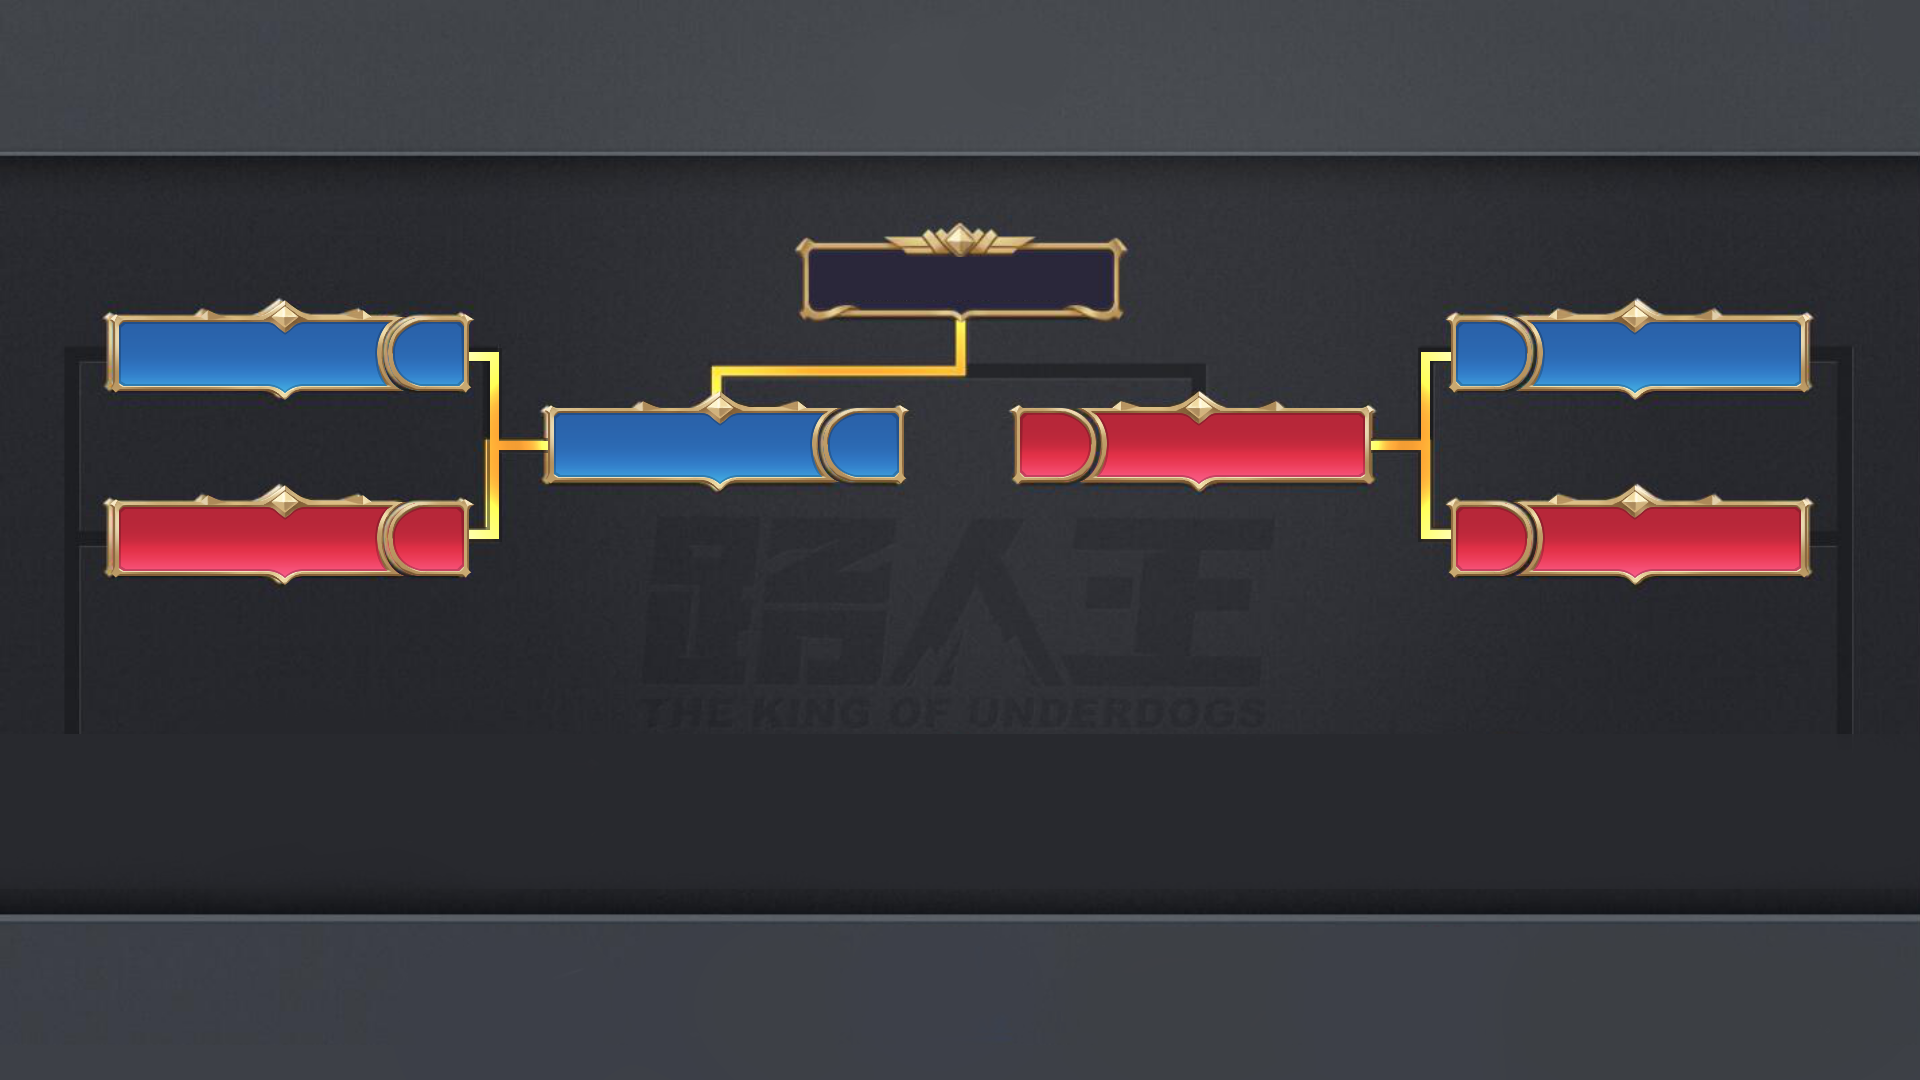
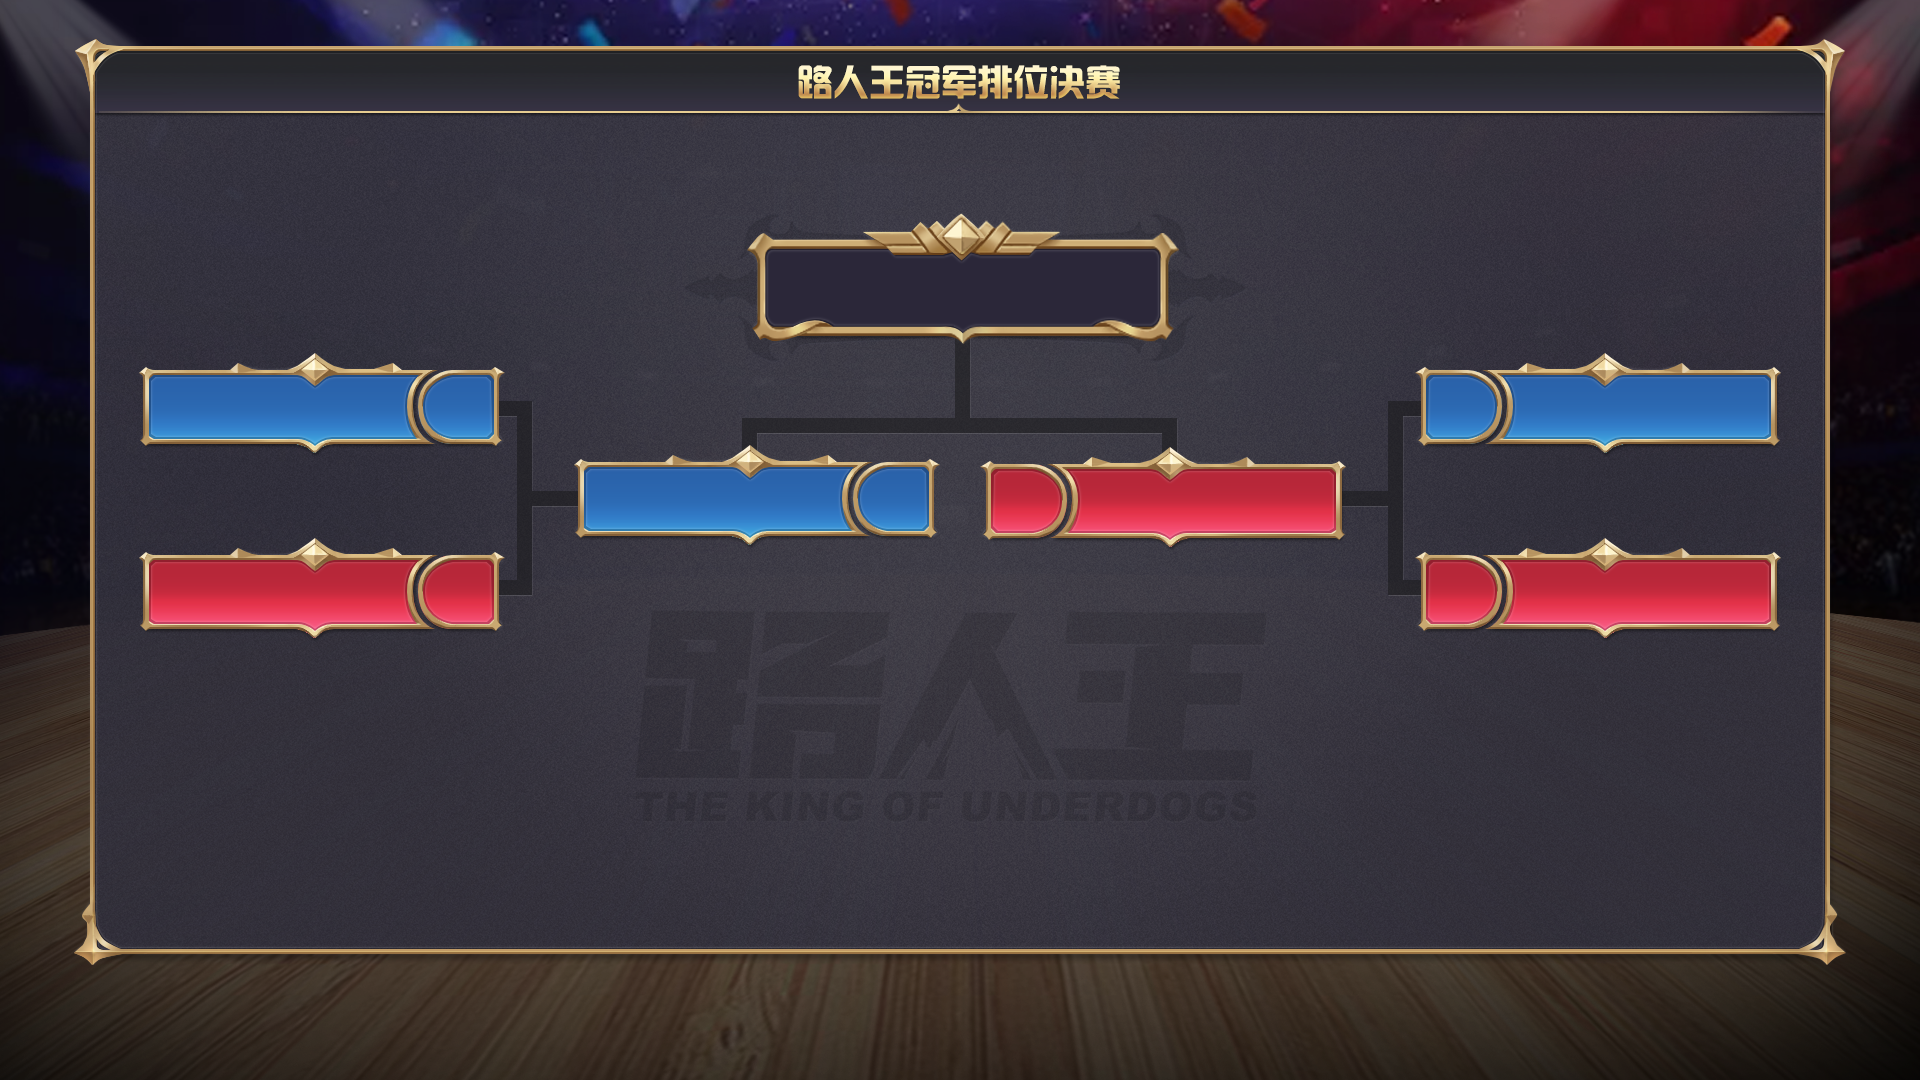
rank bracket update

diff --git a/src/static/html/bracket/ww/rank8.html b/src/static/html/bracket/ww/rank8.html
@@ -1,0 +1,158 @@
+<html>
+
+<head>
+    <style>
+        .bg {
+            position: absolute;
+            left: 0;
+            top: 0;
+        }
+        
+        .bracket {
+            position: absolute;
+            left: 0;
+            top: 0;
+        }
+        
+        .gameTitle {
+            font-family: "微软雅黑";
+            color: #aaa;
+            width: 1920px;
+            font-size: 58px;
+            font-weight: bold;
+            top: 62px;
+            text-align: center;
+        }
+        
+        .player {
+            position: absolute;
+            padding: 0px;
+            font-size: 38px;
+            color: #fff;
+            width: 300px;
+            font-family: "微软雅黑";
+        }
+        
+        .blue {
+            color: #d6d6d6;
+            text-align: center;
+        }
+        
+        .white {
+            color: #fff;
+            font-family: "微软雅黑";
+        }
+        
+        body {
+            padding: 0;
+            margin: 0;
+            overflow: hidden;
+        }
+    </style>
+    <script src="/js/vue.js"></script>
+    <script src="/js/socket.io.slim.min.js"></script>
+</head>
+
+<body>
+    <div id="app">
+        <img src="rank8Bg.png" />
+        <div v-for="(item, index) in items" :key="item.idx">
+            <div class="player blue" :style="item.s">
+                <span>{{item.name}} </span>
+            </div>
+            <span class="player white" :style="item.ss">{{item.score>-1?item.score:""}} </span>
+        </div>
+    </div>
+    <script>
+        var _p = function(x, y) {
+            return 'left:' + x + 'px;' + 'top:' + y + 'px;'
+        }
+        var app = new Vue({
+            el: '#app',
+            data: {
+                items: [],
+                items2: [],
+                gameTitle: "",
+                isBg1: true,
+                brackets: []
+            },
+            // mounted: function() {
+            created: function() {
+                console.log(this);
+                let _r = (arr, xName, xScore) => { //make r group
+                    let a = []
+                    for (let i = 0; i < arr.length; i++) {
+                        let p = arr[i]
+                        a.push([xName, p[1], xScore])
+                    }
+                    return arr.concat(a)
+                }
+                let pos = []
+                let x1 = 131,
+                    x1r = 1485
+                let scoreOfs = 279
+                pos = pos.concat(_r([
+                        [x1, 255, x1 + scoreOfs],
+                        [x1, 255 + 186, x1 + scoreOfs],
+                    ], x1r, x1r - scoreOfs + 300 - 38)) //300 is css width
+                    .concat(_r([
+                        [x1, 603, x1 + scoreOfs],
+                        [x1, 603 + 186, x1 + scoreOfs]
+                    ], x1r, x1r - scoreOfs + 300 - 38))
+
+                let x2 = 571 - 4,
+                    x2r = 1219 - 172
+                pos = pos.concat(_r([
+                        [x2, 270 + 77, x2 + scoreOfs]
+                    ], x2r, x2r - scoreOfs + 300 - 38))
+                    .concat(_r([
+                        [x2, 694, x2 + scoreOfs]
+                    ], x2r, x2r - scoreOfs + 300 - 38))
+                let _mkItems = (posArr) => {
+                    let a = []
+                    for (let i = 0; i < posArr.length; i++) {
+                        let p = posArr[i]
+                        a.push({
+                            s: _p(p[0], p[1]),
+                            ss: _p(p[2], p[1]),
+                            score: -1,
+                            name: ""
+                        })
+                    }
+                    return a
+                }
+                this.items = _mkItems(pos)
+                let winMap = {
+                        "0": 8,
+                        "1": 9,
+                        "2": 10,
+                        "3": 11
+                    } //rec idx to item idx
+                for (let j = 0; j < 4; j++) {
+                    this.brackets.push([true, true])
+                }
+                //final bracket
+                let pos2 = _r([
+                    [x1, 255, x1 + scoreOfs],
+                    [x1, 255 + 186, x1 + scoreOfs],
+                ], x1r, x1r - scoreOfs + 300 - 38)
+                this.items2 = _mkItems(pos2)
+
+                var localWs = io.connect('/rkb')
+                localWs.on('connect', () => {
+                        console.log('connect', window.location.host)
+                    })
+                    .on('sc_data', (data) => {
+                        console.log('sc_data', data)
+                        if (data.dbIdx == 'worldwar') {
+                            for (let i = 0; i < this.items.length; i++) {
+                                let item = this.items[i];
+                                item.name = ''
+                                item.score = ''
+                            }
+                        }
+                    })
+            }
+        })
+    </script>
+</body>
